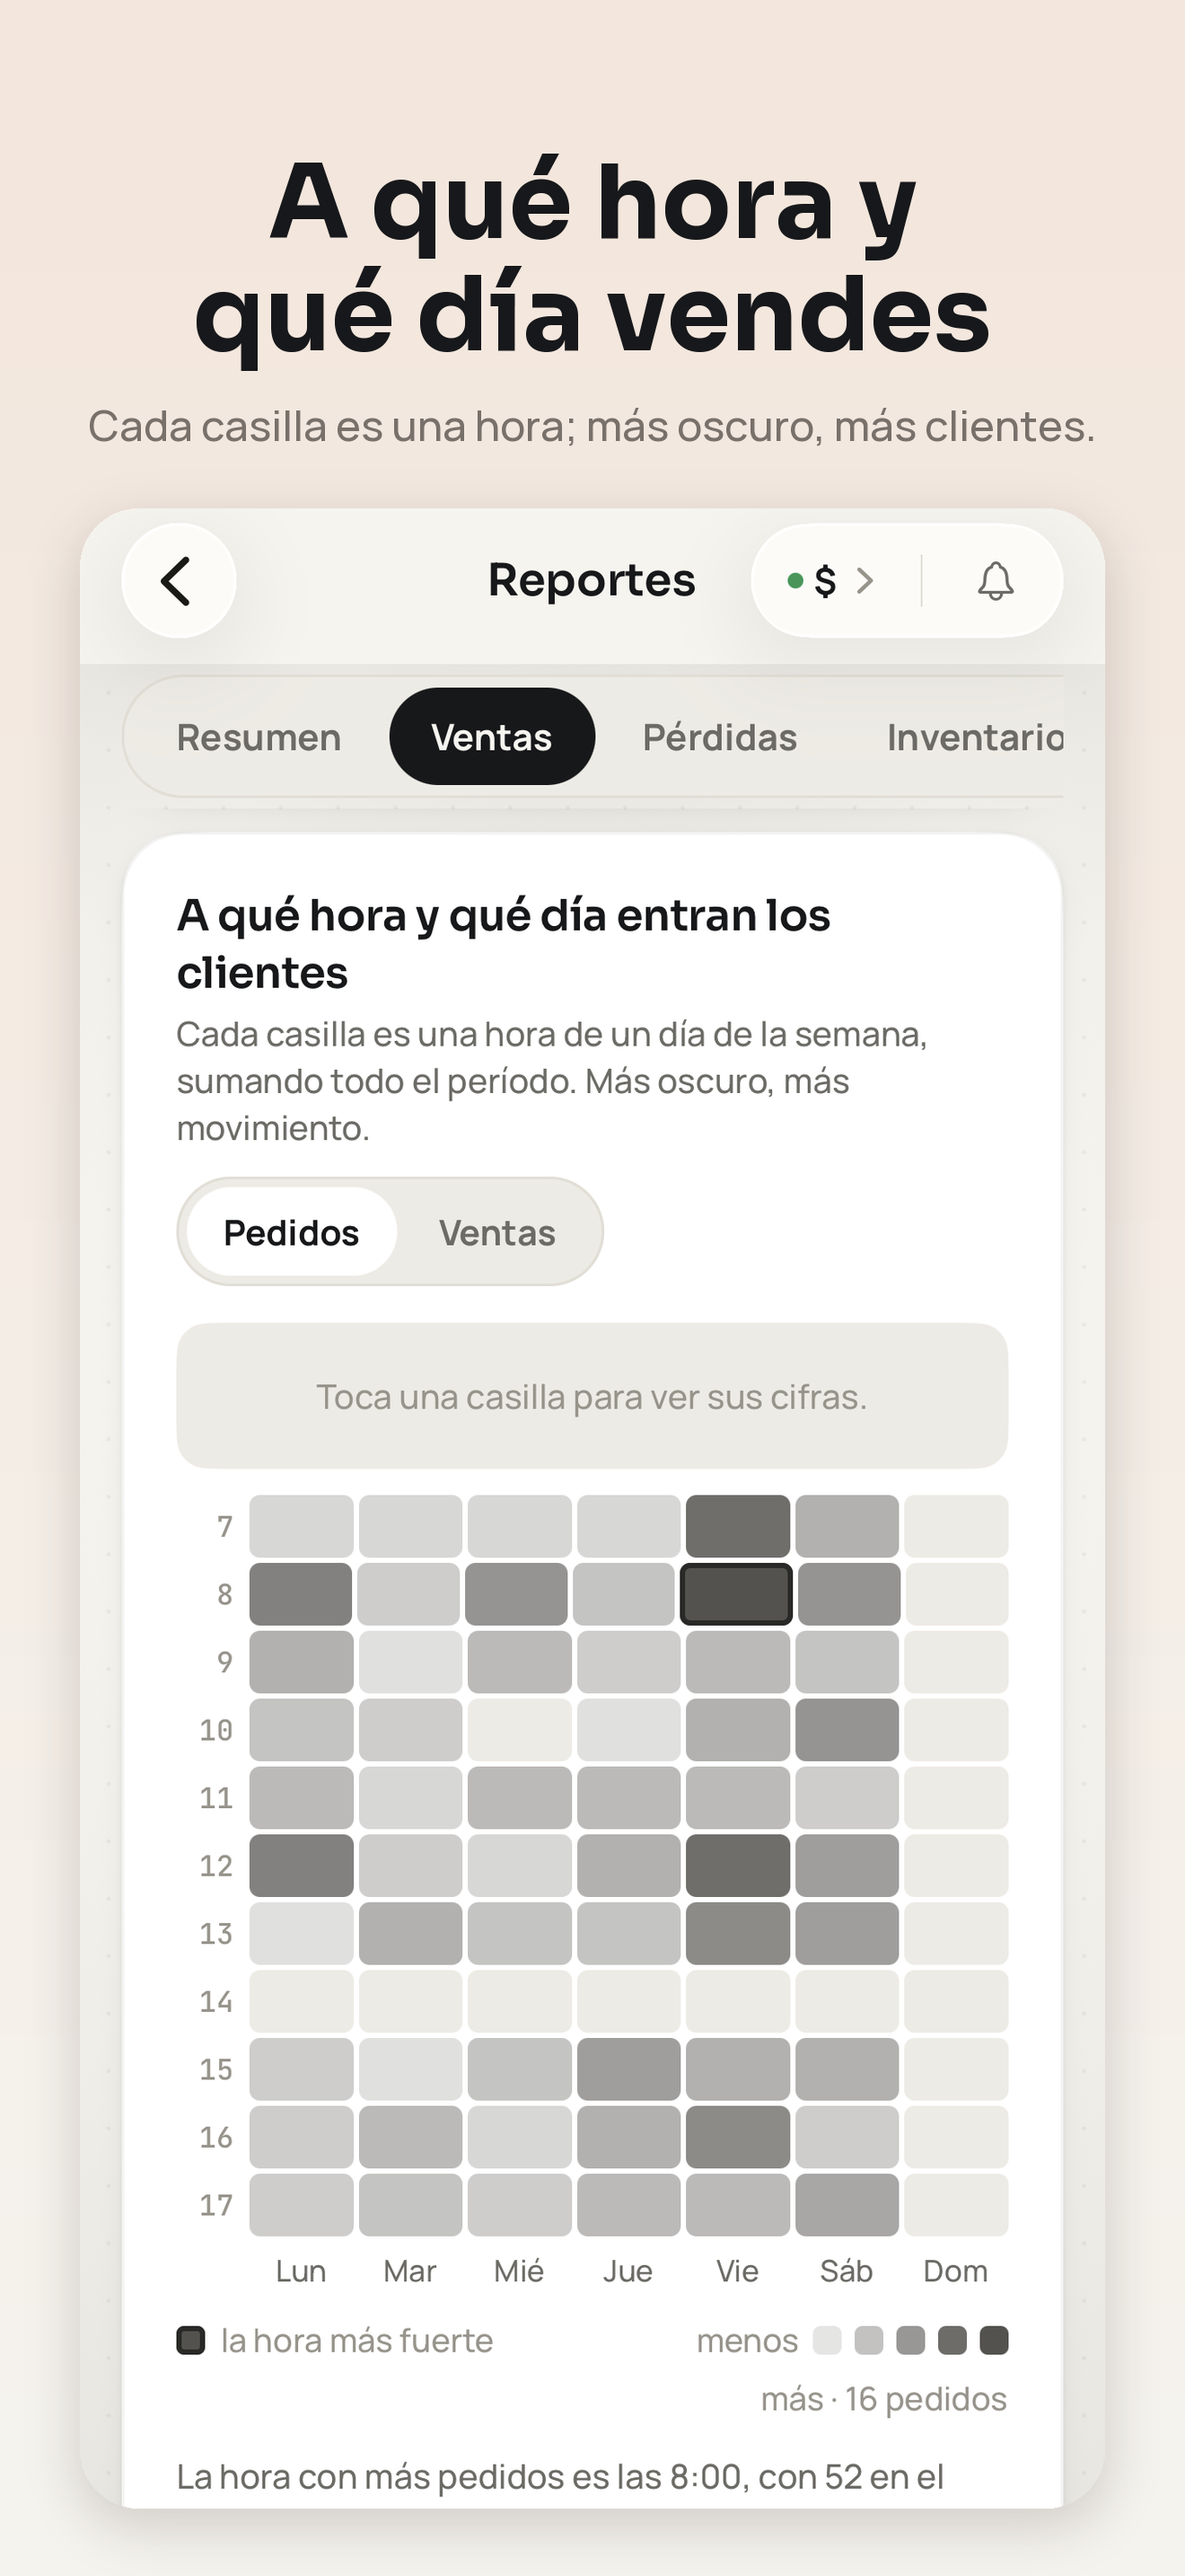
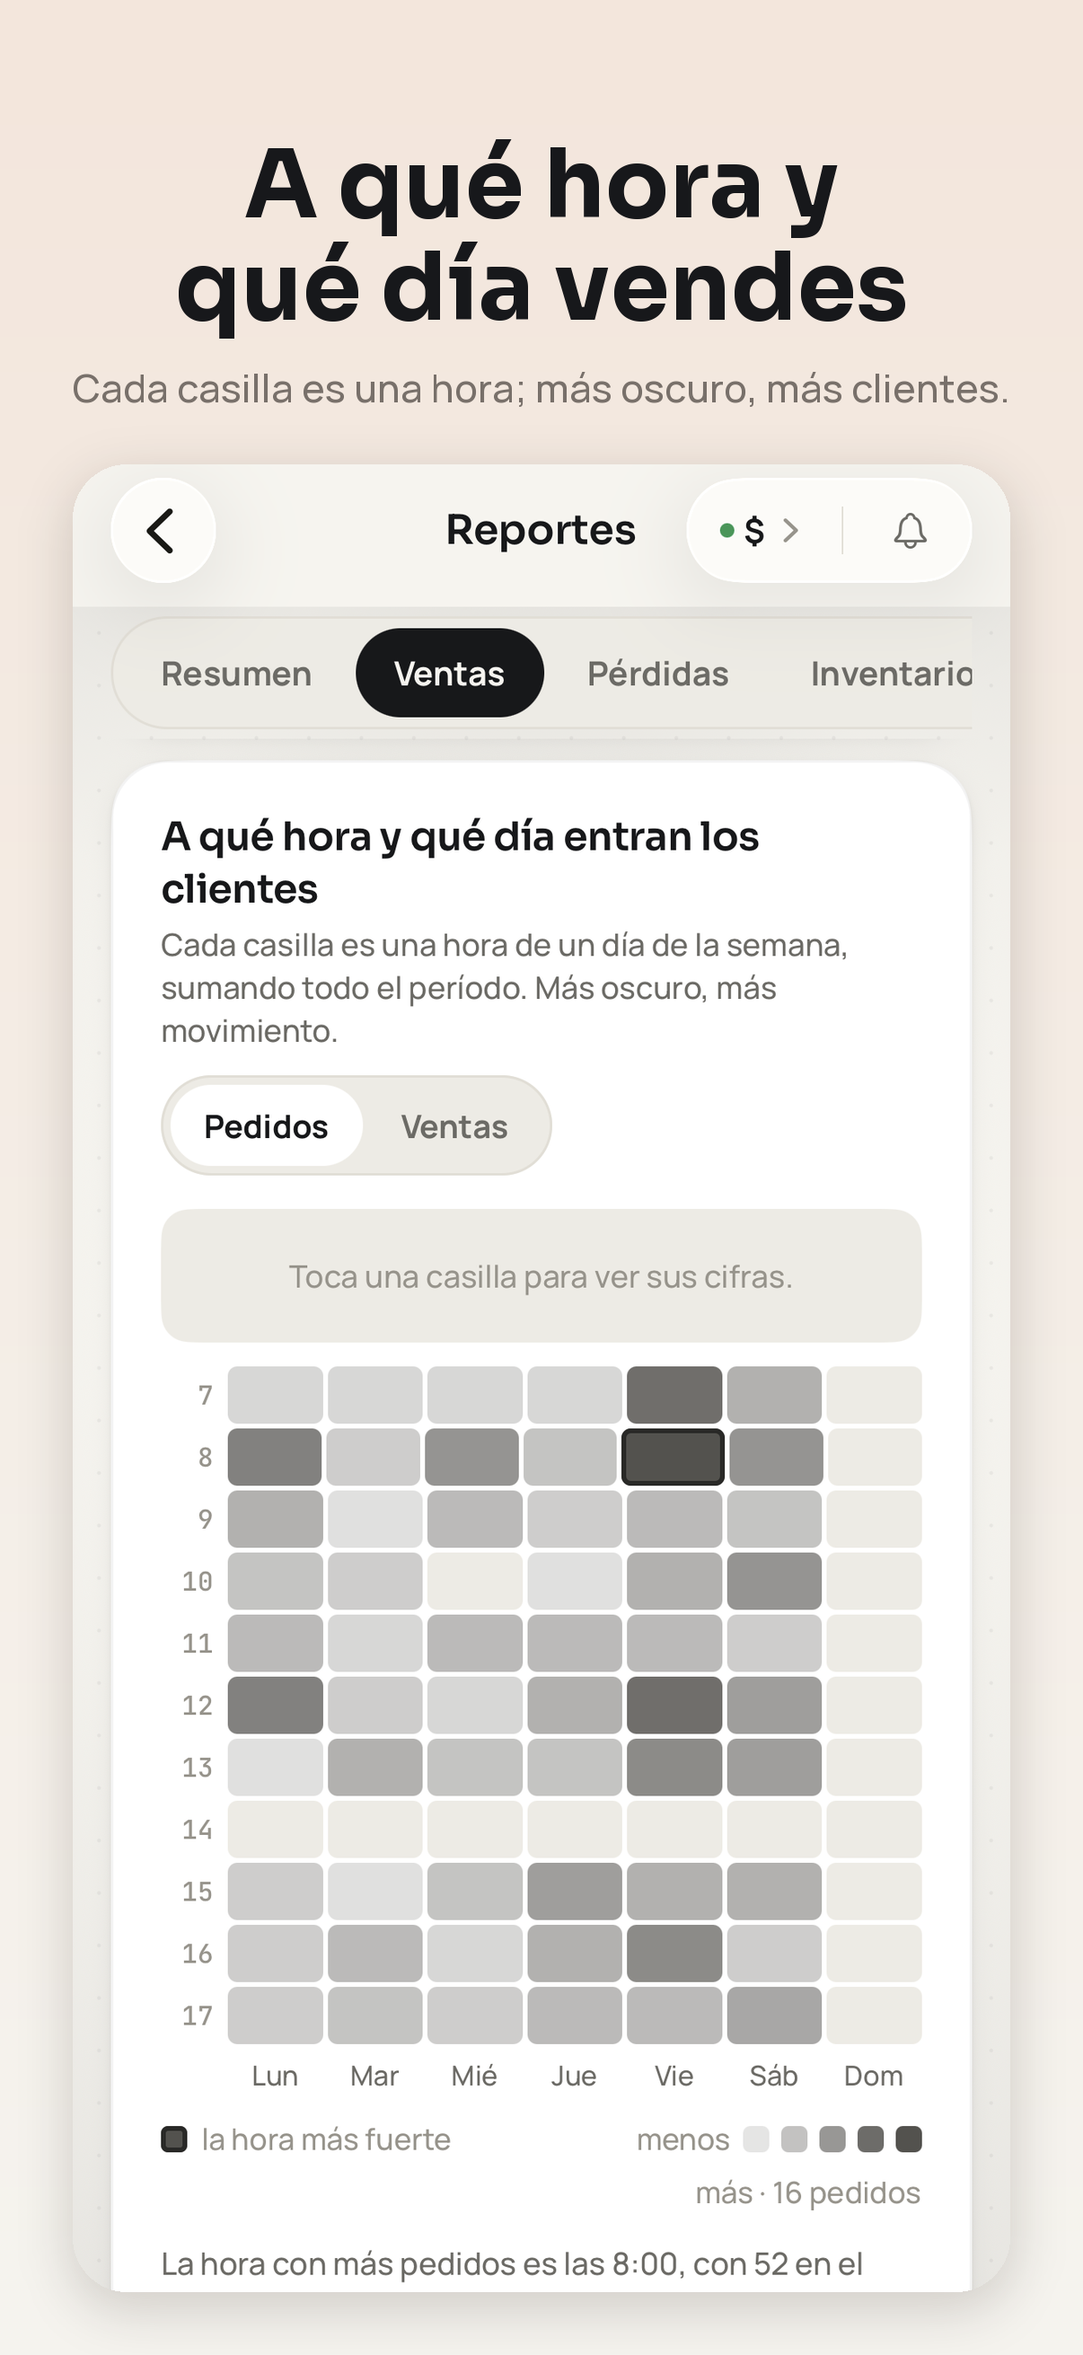
Tienda: capturas a 1206×2622 (lo que acepta "iPhone con Dynamic Island")

diff --git a/movil/tienda/APP-STORE.md b/movil/tienda/APP-STORE.md
@@ -22,7 +22,7 @@ Las claves de la cuenta de demostración están en `tienda/REVISOR.local.txt`
 | Cómo eliminar la cuenta (página) | https://vertigopro.tech/eliminar-cuenta.html |
 | Cuenta de prueba para el revisor | Servidor de demostración `demo.vertigopro.tech`: local ficticio "La Despensa" (comida, producción y reventa), 45 días de ventas, compras y contabilidad inventadas |
 | Entrar a otro negocio | Entrar → "Otro negocio" (así entra el revisor a la demo, y sirve para varios locales) |
-| Capturas de iPhone 6,9" (1320×2868; ASC ya no acepta 1290×2796 en "iPhone con Dynamic Island") | `tienda/capturas/01…06-iphone-6.9.png` (30-oct: inicio, Pregúntame, punto de venta, horas, inventario, factura) |
+| Capturas de iPhone (1206×2622: lo que ASC acepta en "iPhone con Dynamic Island", junto con 1179×2556) | `tienda/capturas/01…06-iphone-6.9.png` (30-oct: inicio, Pregúntame, punto de venta, horas, inventario, factura) |
 | Notas para el revisor y App Privacy (con Anthropic) | `tienda/NOTAS-REVISOR.md` |
 
 El nombre de la empresa y el correo de las páginas legales se cambian en
